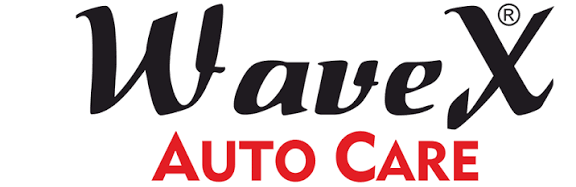
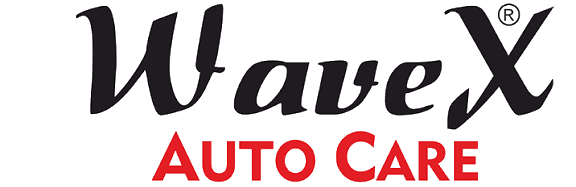
Compressed all the images in the webapp

diff --git a/index.html b/index.html
@@ -350,7 +350,7 @@
             },
             {
                 name: "Basf",
-                src: "images/brands/basf.jpg",
+                src: "images/brands/basf.svg",
                 alt: "BASF"
             },
             {
@@ -412,20 +412,20 @@
 
 
         const productCategories = [
-            { id: 'cleaning-detailing-essentials', name: "Cleaning & Detailing Essentials", image: "images/product-categories/cleaning_and_detailing.png" },
-            { id: 'interior-exterior-care', name: "Interior & Exterior Care Products", image: "images/product-categories/interior_and_exterior_care.png" },
-            { id: 'protective-coatings-waxes', name: "Protective Coatings & Waxes", image: "images/product-categories/coatings_and_waxes.png" },
-            { id: 'maintenance-solutions', name: "Professional-Grade Maintenance Solutions", image: "images/product-categories/maintenance_solutions.png" },
-            { id: 'industrial-cleaners', name: "Industrial Cleaners", image: "images/product-categories/industrial_cleaners.png" },
-            { id: 'carwash-carcare', name: "Car Wash & Car Care", image: "images/product-categories/car_wash_and_car_care.png" },
-            { id: 'workshop-cleaners', name: "Workshop Cleaners", image: "images/product-categories/workshop_cleaners.png" },
-            { id: 'decontamination-chemicals', name: "Decontamination Chemicals", image: "images/product-categories/decontamination_chemicals.png" },
-            { id: 'heavy-duty-cleaning-compounds', name: "Heavy Duty Cleaning Compounds", image: "images/product-categories/heavy_duty_cleaning_compounds.png" },
-            { id: 'electrical-contact-cleaners', name: "Electrical Contact Cleaners", image: "images/product-categories/electrical_contact_cleaners.png" },
-            { id: 'ev-fluids', name: "EV Fluids", image: "images/product-categories/ev_fluids.png" },
-            { id: 'floor-cleaners', name: "Floor Cleaners", image: "images/product-categories/floor_cleaners.png" },
-            { id: 'home-care-chemicals', name: "Home Care Chemicals", image: "images/product-categories/home_care_chemicals.png" },
-            { id: 'marine-cleaners', name: "Marine Cleaners", image: "images/product-categories/marine_cleaners.png" },
+            { id: 'cleaning-detailing-essentials', name: "Cleaning & Detailing Essentials", image: "images/product-categories/cleaning_and_detailing.webp" },
+            { id: 'interior-exterior-care', name: "Interior & Exterior Care Products", image: "images/product-categories/interior_and_exterior_care.webp" },
+            { id: 'protective-coatings-waxes', name: "Protective Coatings & Waxes", image: "images/product-categories/coatings_and_waxes.webp" },
+            { id: 'maintenance-solutions', name: "Professional-Grade Maintenance Solutions", image: "images/product-categories/maintenance_solutions.webp" },
+            { id: 'industrial-cleaners', name: "Industrial Cleaners", image: "images/product-categories/industrial_cleaners.webp" },
+            { id: 'carwash-carcare', name: "Car Wash & Car Care", image: "images/product-categories/car_wash_and_car_care.webp" },
+            { id: 'workshop-cleaners', name: "Workshop Cleaners", image: "images/product-categories/workshop_cleaners.webp" },
+            { id: 'decontamination-chemicals', name: "Decontamination Chemicals", image: "images/product-categories/decontamination_chemicals.webp" },
+            { id: 'heavy-duty-cleaning-compounds', name: "Heavy Duty Cleaning Compounds", image: "images/product-categories/heavy_duty_cleaning_compounds.webp" },
+            { id: 'electrical-contact-cleaners', name: "Electrical Contact Cleaners", image: "images/product-categories/electrical_contact_cleaners.webp" },
+            { id: 'ev-fluids', name: "EV Fluids", image: "images/product-categories/ev_fluids.webp" },
+            { id: 'floor-cleaners', name: "Floor Cleaners", image: "images/product-categories/floor_cleaners.webp" },
+            { id: 'home-care-chemicals', name: "Home Care Chemicals", image: "images/product-categories/home_care_chemicals.webp" },
+            { id: 'marine-cleaners', name: "Marine Cleaners", image: "images/product-categories/marine_cleaners.webp" },
         ];
 
         // The keys of this object must match the ids you defined in your productCategories array (e.g., 'cleaning-detailing', 'interior-exterior').
@@ -435,7 +435,7 @@
                     id: 'coat-01',
                     name: "Pure Ceramic Coating",
                     price: "Inquire for Price",
-                    image: "images/products/pure_ceramic_coating.png",
+                    image: "images/products/pure_ceramic_coating.webp",
                     desc: {
                         text: "Nano Ceramic Coating is an advanced liquid polymer applied to a vehicle’s exterior surfaces to create a durable, transparent protective layer. It chemically bonds with the paint, providing superior resistance against UV rays, oxidation, dirt, and minor scratches.",
                         bullets: [
@@ -450,7 +450,7 @@
                     id: 'coat-02',
                     name: "Graphene Pro Coating",
                     price: "Inquire for Price",
-                    image: "images/products/graphene_pro_coating.png",
+                    image: "images/products/graphene_pro_coating.webp",
                     desc: {
                         text: "Graphene Pro Coat is an advanced, easy-to-use nano paint protection coating that provides exceptional surface clarity and durability. Its visible application and enhanced chemical composition deliver long-lasting, high-performance protection.",
                         bullets: [
@@ -466,7 +466,7 @@
                     id: 'coat-03',
                     name: "Advanced Borophene Coat",
                     price: "Inquire for Price",
-                    image: "images/products/advanced_borophene_coating.png",
+                    image: "images/products/advanced_borophene_coating.webp",
                     desc: {
                         text: "Borophene Coating is a next-generation nano protective coating formulated using advanced boron-based nanomaterials. Renowned for its exceptional strength, thermal stability, and conductivity, borophene provides superior protection and surface enhancement compared to traditional ceramic coatings. When applied to automotive paint, it forms an ultra-thin, durable layer that resists oxidation, UV damage and chemical etching while delivering brilliant, mirror-like gloss. Its high hydrophobicity ensures excellent water beading and self-cleaning performance, keeping vehicles cleaner for longer with minimal maintenance.",
                         bullets: [
@@ -484,7 +484,7 @@
                     id: 'coat-04',
                     name: "Ultimate Borograph Coating",
                     price: "Inquire for Price",
-                    image: "images/products/ultimate_borograph_coating.png",
+                    image: "images/products/ultimate_borograph_coating.webp",
                     desc: {
                         text: "Borograph Coating is an advanced hybrid nano coating that combines the superior hardness of graphene with the exceptional durability of borophene technology. This unique formulation delivers outstanding surface protection, gloss, and hydrophobic performance for automotive paintwork and other exterior surfaces. The coating forms a dense, ultra-smooth layer that resists UV rays, oxidation, chemical stains, and micro-scratches—ensuring long-lasting brilliance and ease of maintenance. Its dual-layer molecular structure enhances surface strength, improves heat dissipation, and creates a slick, mirror-like finish that repels water, dust, and contaminants effortlessly. Designed for professionals and enthusiasts alike, Borograph Coating sets a new benchmark in next-generation paint protection.",
                         bullets: [
@@ -498,7 +498,7 @@
                     id: 'coat-05',
                     name: "Night Ride Coat",
                     price: "Inquire for Price",
-                    image: "images/products/night_ride_coat.png",
+                    image: "images/products/night_ride_coat.webp",
                     desc: {
                         text: "Night Illuminating Ceramic Coating is a premium nano-protective coating infused with photoluminescent compounds that make vehicle surfaces subtly glow in low light or at night. Designed for both aesthetics and performance, this advanced formula not only enhances night time visibility but also provides long-lasting protection against UV rays, oxidation, contaminants, and minor scratches. The coating forms a durable, crystal-clear layer that bonds with the paint to deliver a smooth, glossy finish during the day and a radiant glow after dark. With its strong hydrophobic properties, it repels water, dirt, and grime—keeping your vehicle clean, protected, and visually striking around the clock.",
                         bullets: [
@@ -515,7 +515,7 @@
                     id: 'coat-11',
                     name: "Final Wax Polish",
                     price: "Inquire for Price",
-                    image: "images/products/final_wax_polish.png",
+                    image: "images/products/final_wax_polish.webp",
                     desc: {
                         text: "Helps to remove holograms and gives a super shine to the painted surfaces.",
                         bullets: ["Removes holograms", "Super shine finish"]
@@ -525,7 +525,7 @@
                     id: 'coat-12',
                     name: "Spray Carnauba Wax",
                     price: "Inquire for Price",
-                    image: "images/products/spray_carnauba_wax.png",
+                    image: "images/products/spray_carnauba_wax.webp",
                     desc: {
                         text: "To make a protective barrier for the finished paint work that lasts over months. Specially made carnauba liquid wax for an easy waxing to get high level of shining.",
                         bullets: ["Protective barrier", "Easy application", "High level shine"]
@@ -535,7 +535,7 @@
                     id: 'coat-13',
                     name: "Carnauba Cream Wax",
                     price: "Inquire for Price",
-                    image: "images/products/carnauba_cream_wax.png",
+                    image: "images/products/carnauba_cream_wax.webp",
                     desc: {
                         text: "Its formulation helps to give extra shining and glaze to the polished surfaces. It can be used with machine and waxing pads.",
                         bullets: ["Extra shine and glaze", "Machine compatible", "Easy to use"]
@@ -547,7 +547,7 @@
                     id: 'int-01',
                     name: "Z'Leather Coat",
                     price: "Inquire for Price",
-                    image: "images/products/z'leather_coat.png",
+                    image: "images/products/z'leather_coat.webp",
                     desc: {
                         text: "Leather Upholstery Coating that protects your leather parts against stains, aging and marks. Creates a smooth and hydrophobic surface that is easy to clean.",
                         bullets: [
@@ -561,7 +561,7 @@
                     id: 'int-02',
                     name: "Z'Fabric Coat",
                     price: "Inquire for Price",
-                    image: "images/products/z'fabric_coat.png",
+                    image: "images/products/z'fabric_coat.webp",
                     desc: {
                         text: "Fabric coat helps to repel water based spills without changing the feel of the fabric. A solvent based deep penetrating protectant that evaporates quickly leaving an invisible protective barrier.",
                         bullets: [
@@ -575,7 +575,7 @@
                     id: 'int-03',
                     name: "Leather ProZ",
                     price: "Inquire for Price",
-                    image: "images/products/leather_proZ.png",
+                    image: "images/products/leather_proZ.webp",
                     desc: {
                         text: "Leather ProZ is a cleaner and conditioner designed to restore leather seats and surfaces to a new look.",
                         bullets: [
@@ -589,7 +589,7 @@
                     id: 'int-04',
                     name: "Upholstery Cleaner",
                     price: "Inquire for Price",
-                    image: "images/products/upholstery_cleaner.png",
+                    image: "images/products/upholstery_cleaner.webp",
                     desc: {
                         text: "Upholstery Cleaner is designed to clean and remove dirt and grime from almost all car surfaces. It is formulated to be less harmful to breathe.",
                         bullets: ["Removes dirt and grime", "Versatile surface application", "Safer formulation"]
@@ -599,7 +599,7 @@
                     id: 'int-05',
                     name: "Universal Dressing",
                     price: "Inquire for Price",
-                    image: "images/products/universal_dressing.png",
+                    image: "images/products/universal_dressing.webp",
                     desc: {
                         text: "Protector and restorer of faded plastic and vinyl parts of the cars. Can restore and give new look to rubber, plastic, tyre, trims, and many more.",
                         bullets: ["Restores faded plastic/vinyl", "Versatile application (Rubber, Plastic, Tyre)"]
@@ -611,7 +611,7 @@
                     id: 'det-01',
                     name: "Detailer Polymer Spray",
                     price: "Inquire for Price",
-                    image: "images/products/detailer_polimer_spray.png",
+                    image: "images/products/detailer_polimer_spray.webp",
                     desc: {
                         text: "Showroom shine quick detailer spray mainly used to get extra slickness and shine on polished or cleaned cars.",
                         bullets: ["Extra slickness", "Showroom shine", "Ideal for PDIs"]
@@ -621,7 +621,7 @@
                     id: 'det-02',
                     name: "1st Cut Compound",
                     price: "Inquire for Price",
-                    image: "images/products/1st_cut_compound.png",
+                    image: "images/products/1st_cut_compound.webp",
                     desc: {
                         text: "Step 1 in paint correction process to remove heavy scratches.",
                         bullets: ["Removes heavy scratches", "Compatible with foam and wool pads"]
@@ -631,7 +631,7 @@
                     id: 'det-03',
                     name: "Coating Applicator Block",
                     price: "Inquire for Price",
-                    image: "images/products/coating_applicator_block.png",
+                    image: "images/products/coating_applicator_block.webp",
                     desc: {
                         text: "Block for application of protective coatings like ceramic coating, graphene coating, and leather coating.",
                         bullets: ["Ergonomic design", "Suitable for various coatings"]
@@ -641,7 +641,7 @@
                     id: 'det-04',
                     name: "Coating Sued Cloth",
                     price: "Inquire for Price",
-                    image: "images/products/coating_sued_cloth.png",
+                    image: "images/products/coating_sued_cloth.webp",
                     desc: {
                         text: "Cloth designed for application of protective coatings like ceramic coating, graphene coating, and leather coating.",
                         bullets: ["Smooth application", "Lint-free"]
@@ -693,7 +693,7 @@
                     id: 'main-01',
                     name: "Engine Shiner",
                     price: "Inquire for Price",
-                    image: "images/products/engine_shiner.png",
+                    image: "images/products/engine_shiner.webp",
                     desc: {
                         text: "Gives engine room a brand new look. Helps to shine and protect engine compartments. Non-conductive formula safely restores new looks without water rinsing.",
                         bullets: ["Restores new look", "Non-conductive formula", "No water rinsing required"]
@@ -703,7 +703,7 @@
                     id: 'main-02',
                     name: "Tire Dressing",
                     price: "Inquire for Price",
-                    image: "images/products/tire_dressing.png",
+                    image: "images/products/tire_dressing.webp",
                     desc: {
                         text: "To shine the tyre like brand new or even more.",
                         bullets: ["High gloss shine", "Restores tire appearance"]
@@ -715,7 +715,7 @@
                     id: 'wash-01',
                     name: "Super Suds Wax Shampoo",
                     price: "Inquire for Price",
-                    image: "images/products/super_suds_wax_shampoo.png",
+                    image: "images/products/super_suds_wax_shampoo.webp",
                     desc: {
                         text: "New formulation of this shampoo provides extra shine as waxed in washing.",
                         bullets: ["Extra shine", "Less streaking", "Reduces water spotting"]
@@ -725,7 +725,7 @@
                     id: 'wash-02',
                     name: "Waterless Wash",
                     price: "Inquire for Price",
-                    image: "images/products/waterless_wash.png",
+                    image: "images/products/waterless_wash.webp",
                     desc: {
                         text: "Wash the car without water spillage. It not only cleans the car but also gives shine as waxed.",
                         bullets: ["No water spillage", "Cleans and shines", "Eco-friendly solution"]
@@ -737,7 +737,7 @@
                     id: 'hd-01',
                     name: "All Purpose Degreaser",
                     price: "Inquire for Price",
-                    image: "images/products/all_purpose_degreaser.png",
+                    image: "images/products/all_purpose_degreaser.webp",
                     desc: {
                         text: "All Purpose Degreaser is to remove greasy and oily dirt and stain mainly from metal parts, engine room, under chassis etc.",
                         bullets: ["Removes grease and oil", "Ideal for engines and chassis", "Heavy duty cleaning"]
